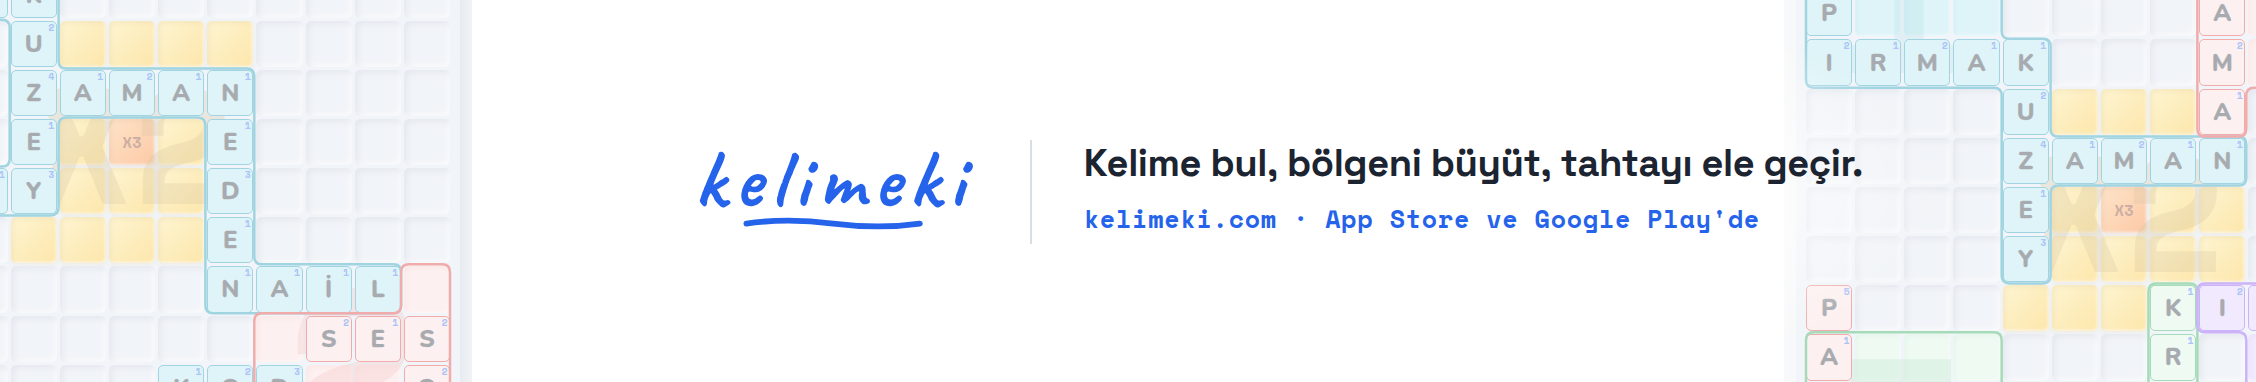
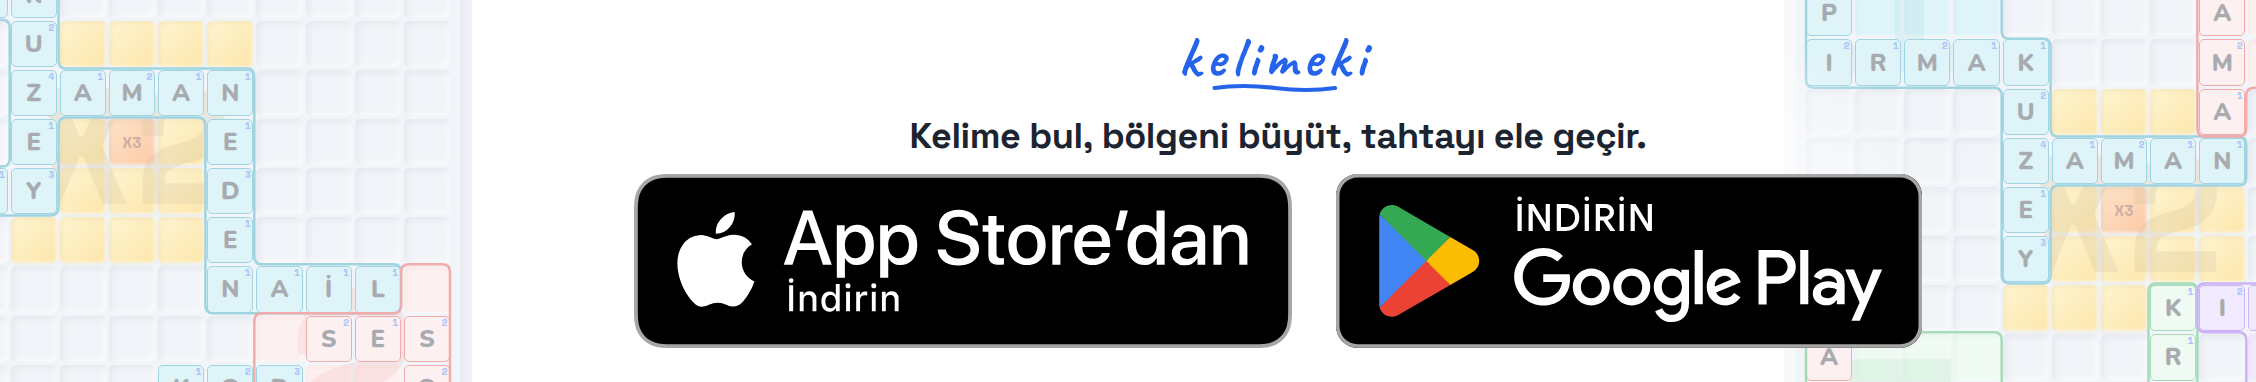
Pazarlama: LinkedIn kapaklarında mağaza metni yerine iki rozet
Rozetler visibleStoreBadges'ten (App Store önce, eşit yükseklik);
yükseklik Apple'ın 40 pt sınırından ve telefon kırpma şeridinden
türetiliyor (58 / 87 px). Sayfa kapağı dikey yığına döndü. Üretici
rozetleri ölçüyor, kırpma dışındaysa düşüyor.

Claude-Session: https://claude.ai/code/session_013dE4YtCbyKB92nMS3fg6J3

Changed region(s): [[0.2793, 0.3168, 0.8688, 0.9215], [0.5275, 0.1152, 0.6206, 0.2592]]

diff --git a/scripts/kapak/linkedin.tsx b/scripts/kapak/linkedin.tsx
@@ -14,7 +14,9 @@
 // iki yandan taşar, kırpılmaları bilgi kaybettirmez.
 import { renderToStaticMarkup } from 'react-dom/server';
 import { LandingLogo, LandingLogoDefs } from '../../src/landing/LandingLogo';
-import { visibleStoreNamesTr } from '../../src/utils/storeLinks';
+import {
+  BADGE_GAP_PX, BADGE_HEIGHT_PX, BADGE_MIN_HEIGHT_PX, visibleStoreBadges,
+} from '../../src/utils/storeLinks';
 import { GameBoardPreview } from '../../src/components/GameBoardPreview';
 import { DEMO_TILES_2, DEMO_TILES_4 } from '../../src/landing/demoBoard';
 
@@ -31,12 +33,33 @@ const SANS = '"Space Grotesk", sans-serif';
 const ACCENT = '#2563EB';
 
 /**
- * Mağaza cümlesi KAPIDAN türer (`storeLinks.ts`) — elle yazılmaz.
- * 16 Eylül 2026'nın dersi: mağaza durumu değişince elle yazılmış metin
- * sessizce bayatlıyor. Play yayına girdiğinde bu kapak yeniden üretilirse
- * satır kendiliğinden "App Store ve Google Play'de" olur.
+ * Mağazalar ROZET olarak (27 Eylül 2026, kullanıcı isteği — önceden düz
+ * metindi: "kelimeki.com · App Store ve Google Play'de"). Hangi rozetin
+ * çıktığı ve sırası KAPIDAN (`visibleStoreBadges` — App Store önce, eşit
+ * yükseklik); rozet dosyaları `<img>` ile, çizilmez.
+ *
+ * ⚠ Yükseklik Apple'ın alt sınırından TÜRER, elle seçilmez: 40 pt EKRANDA
+ * ölçülür ve en küçük ekran telefonun kırpması — kapağın orta `mobilW`
+ * px'lik şeridi ~390 pt'lik ekrana yayılıyor (`build.mjs`teki `MOBIL_W`
+ * ile AYNI sayılar). Kişisel kapakta 560 → 58 px, sayfa kapağında
+ * 840 → 87 px.
+ *
+ * ⚠ Rozetlere dokunulamaz — LinkedIn kapağa link koydurmuyor; bilinen bedel.
  */
-const MAGAZA = visibleStoreNamesTr();
+const TELEFON_PT = 390;
+function rozetYuksekligi(mobilW: number): number {
+  return Math.ceil(BADGE_MIN_HEIGHT_PX / (TELEFON_PT / mobilW));
+}
+
+function Rozetler({ yukseklik }: { yukseklik: number }) {
+  return (
+    <div data-rozetler="" style={{ display: 'flex', alignItems: 'center', gap: Math.round((yukseklik * BADGE_GAP_PX) / BADGE_HEIGHT_PX) }}>
+      {visibleStoreBadges().map((b) => (
+        <img key={b.key} src={b.asset} alt={b.alt} style={{ height: yukseklik, width: 'auto', display: 'block' }} />
+      ))}
+    </div>
+  );
+}
 
 function Tahta({ tiles, sayi, stil }: { tiles: typeof DEMO_TILES_2; sayi: number; stil: React.CSSProperties }) {
   return (
@@ -93,20 +116,21 @@ export function LinkedInKapak() {
           alignItems: 'center',
           justifyContent: 'center',
           // Dikeyde hafif yukarı: alt bant avatarın ve ad kartının bölgesi.
-          paddingBottom: 26,
+          paddingBottom: 18,
         }}
       >
         {/* Güvenli kutu: 440 px — telefonun dar kırpmasında da tamamen içeride. */}
         <div
           data-guvenli-kutu=""
-          style={{ width: 440, display: 'flex', flexDirection: 'column', alignItems: 'center', gap: 9 }}
+          style={{ width: 440, display: 'flex', flexDirection: 'column', alignItems: 'center', gap: 7 }}
         >
-          <LandingLogo height={44} />
-          <p style={{ margin: 0, fontSize: 17, lineHeight: 1.25, fontWeight: 700, letterSpacing: -0.2 }}>
+          <LandingLogo height={36} />
+          <p style={{ margin: 0, fontSize: 16, lineHeight: 1.2, fontWeight: 700, letterSpacing: -0.2 }}>
             Kelime bul, bölgeni büyüt, tahtayı ele geçir.
           </p>
-          <span style={{ fontFamily: MONO, fontSize: 12, fontWeight: 700, color: ACCENT, letterSpacing: 0.5 }}>
-            {MAGAZA ? `kelimeki.com · ${MAGAZA}` : 'kelimeki.com'}
+          <Rozetler yukseklik={rozetYuksekligi(560)} />
+          <span style={{ fontFamily: MONO, fontSize: 11, fontWeight: 700, color: ACCENT, letterSpacing: 0.5 }}>
+            kelimeki.com
           </span>
         </div>
       </div>
@@ -162,17 +186,16 @@ export function LinkedInSayfaKapak() {
           paddingLeft: 150,
         }}
       >
-        <div data-guvenli-kutu="" style={{ display: 'flex', alignItems: 'center', gap: 26 }}>
-          <LandingLogo height={46} />
-          <span style={{ width: 1, height: 52, background: '#D8DEE6' }} />
-          <div style={{ display: 'flex', flexDirection: 'column', gap: 7 }}>
-            <p style={{ margin: 0, fontSize: 19, lineHeight: 1.2, fontWeight: 700, letterSpacing: -0.2 }}>
-              Kelime bul, bölgeni büyüt, tahtayı ele geçir.
-            </p>
-            <span style={{ fontFamily: MONO, fontSize: 12.5, fontWeight: 700, color: ACCENT, letterSpacing: 0.4 }}>
-              {MAGAZA ? `kelimeki.com · ${MAGAZA}` : 'kelimeki.com'}
-            </span>
-          </div>
+        {/* Dikey yığın (27 Eylül 2026'ya kadar yatay: logo | çizgi | metin).
+            Telefon kırpmasının 87 px istediği rozetlerin yanına logo artık
+            sığmıyor (logo + iki rozet ≈ 890 px > 840 px'lik şerit), üste alındı.
+            Site adresi bu kapakta YOK — sayfanın kendi "Web sitesi" düğmesi var. */}
+        <div data-guvenli-kutu="" style={{ display: 'flex', flexDirection: 'column', alignItems: 'center', gap: 8 }}>
+          <LandingLogo height={32} />
+          <p style={{ margin: 0, fontSize: 18, lineHeight: 1.2, fontWeight: 700, letterSpacing: -0.2 }}>
+            Kelime bul, bölgeni büyüt, tahtayı ele geçir.
+          </p>
+          <Rozetler yukseklik={rozetYuksekligi(840)} />
         </div>
       </div>
     </div>

diff --git a/docs/decisions/marketing-assets.md b/docs/decisions/marketing-assets.md
@@ -205,10 +205,21 @@ sayılar: güvenli kutu 440 px, dikeyde 26 px yukarı kaydırılmış.
 y 35–137 · telefon kırpması x 116–676 → içeride · avatar bölgesi (sol %22,
 alt %45) → uzakta.
 
-⚠ **Mağaza cümlesi ELLE YAZILMIYOR** — `visibleStoreNamesTr()`ten geliyor
-(`storeLinks.ts`). Play yayına girip URL dolduğunda kapak yeniden
-üretilirse satır kendiliğinden "App Store ve Google Play'de" olur; bu,
-16 Eylül 2026'da SSS metninin bayatlamasıyla alınan dersin aynısı.
+⚠ **Mağazalar KAPIDAN geliyor, elle yazılmıyor** (`storeLinks.ts`) — 16
+Eylül 2026'da SSS metninin bayatlamasıyla alınan dersin aynısı.
+
+**27 Eylül 2026: metin → ROZET, iki kapakta da** (kullanıcı isteği).
+`visibleStoreBadges()` (App Store önce, eşit yükseklik), `<img>` ile.
+Yükseklik Apple'ın 40 pt alt sınırından TÜRETİLİYOR: sınır EKRANDA
+ölçülür, en küçük ekran telefonun kırpması (kapağın orta `MOBIL_W`
+şeridi ~390 pt'ye yayılıyor) → kişisel kapakta 560 → **58 px**, sayfa
+kapağında 840 → **87 px**. Sayfa kapağı bu yüzden yatay dizilimden
+(logo | çizgi | metin) dikey yığına döndü — logo + iki rozet 840'a
+sığmıyordu — ve site adresi oradan çıktı (sayfanın "Web sitesi" düğmesi
+var); kişisel kapakta `kelimeki.com` rozetlerin altında kaldı. Betik iki
+rozetin kırpma şeridinde ve eşit yükseklikte olduğunu ölçer, değilse
+DÜŞER. Bilinen bedel: kapakta rozete dokunulamaz (LinkedIn link
+koydurmuyor).
 
 ### Reel (`scripts/reel/`, 20 Ağustos 2026)
 
